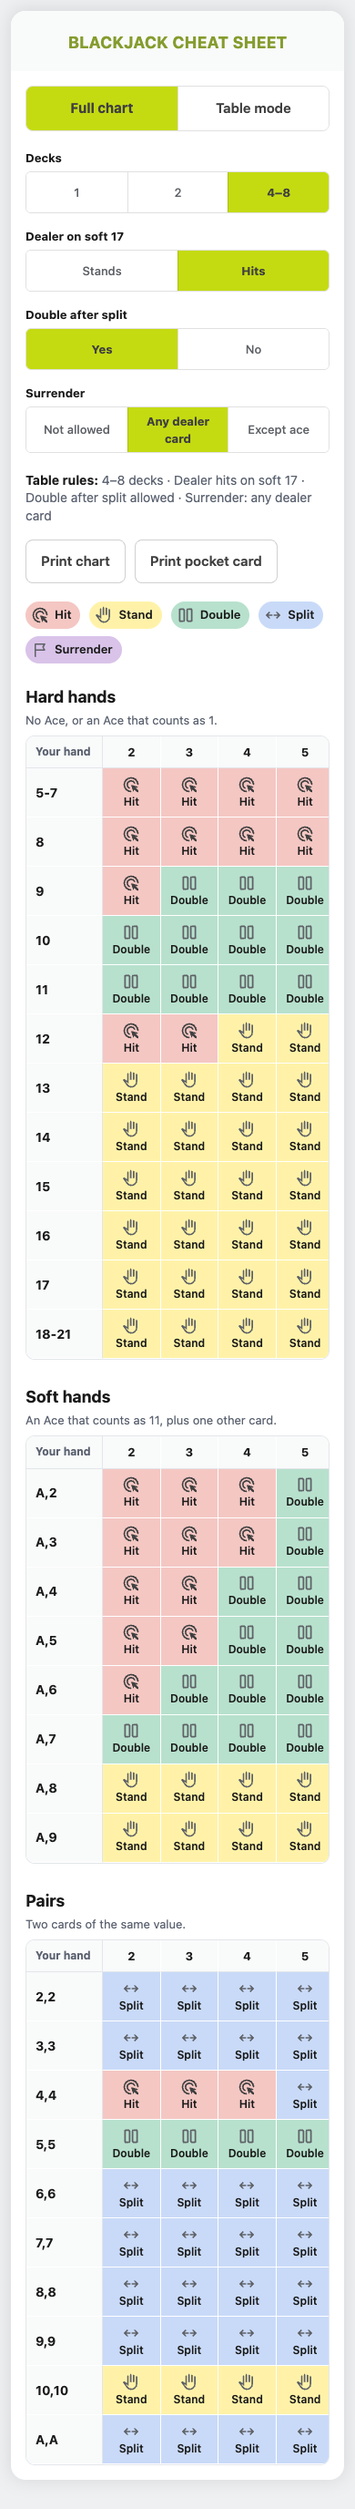
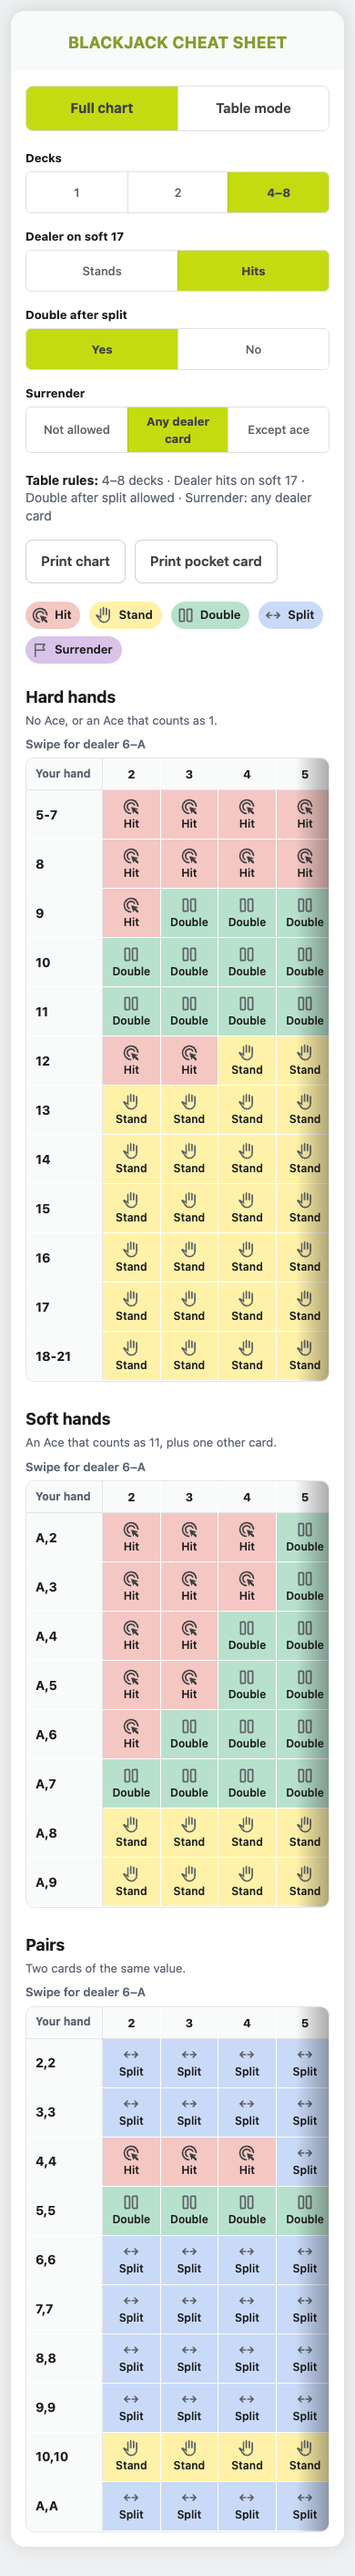
S-20 (QA): checks 9-11 added, full QA re-run 11/11 PASS; screenshots refreshed (reviewed PASS, G3 pending)

Changed region(s): [[0.0615, 0.0312, 0.9231, 0.9996]]

diff --git a/docs/qa/2026-10-05-qa.md b/docs/qa/2026-10-05-qa.md
@@ -1,4 +1,6 @@
-# QA report S-12 — prototype/index.html (2026-10-05)
+# QA report S-12 + S-20 — prototype/index.html (2026-10-05)
+
+Sections: original S-12 run (history, HEAD 43b8631) first; "Re-run after S-20" (HEAD 1a0410c) at the end.
 
 Goal served: 2 (correct at the table, printable). Gate: G3. Tester: qa-tester. Reports only; no app/engine code touched.
 
@@ -47,3 +49,51 @@ No high-severity failures.
 - Check 1, 4 and the 12,600-click pass of check 2 use real clicks on the rule-panel labels and table-mode buttons. Checks 3 and 8 use real keyboard events.
 - Print checks use Chrome page.pdf with print media emulated and html[data-print] set directly; window.print is stubbed only for the button test.
 - Page count is read from the PDF structure; the default 1-set run and the full run gave the same table.
+
+---
+
+## Re-run after S-20 (2026-10-05, HEAD 1a0410c)
+
+Script: `node docs/qa/qa-run.mjs` (default QA_TABLE_CLICKS=one; total about 3 min; exit code 0). Checks 1-8 re-run unchanged and all PASS (original results above kept for history; check 6 and the F3 note are superseded by checks 9/10 below). Checks 9-11 added. Real Chrome, file://, 0 console messages, 66 requests all the one file.
+
+| # | Check | Result | Evidence |
+|---|---|---|---|
+| 1 | 36 rule sets by real clicks, 10,800 cells == snapshot | PASS | 0 mismatches |
+| 2 | Table mode == chart (1 set x 350 by clicks, 36 x 350 via UI functions) | PASS | 0 mismatches |
+| 3 | Reason panel | PASS | unchanged |
+| 4 | My-table link | PASS | unchanged |
+| 5 | Print: 144 PDFs, 1 page each; rules + cells == snapshot | PASS | unchanged |
+| 6 | Layout 390/1280, no sideways scroll | PASS | scrollWidth == innerWidth in all states; tap targets under 44px: none at 390 or 1280 (Calculator link no longer flagged) |
+| 7 | Console + network | PASS | 0 console messages, 0 page errors, only the file URL |
+| 8 | Keyboard + a11y | PASS | script regex updated: a changed cell's label is now "Hard 8 vs dealer 5: Double, changed for your new rules. Show why" (accepted) |
+| 9 | Scroll cue (F1) | PASS | 390 on load: all 3 tables show "Swipe for dealer 6-A" + 36px right fade (box 332/720); fade pointer-events none; fade starts at x=325, pinned column ends at x=113; real mouse tap in the fade area hits the cell button and opens its reason panel ("Hard 10 vs dealer 5"); after scrolling each box to the end (scrollLeft 388) hint and fade gone; scrolling back restores them; 1280: no hint/fade; scrollWidth == innerWidth at both |
+| 10 | Calculator link >= 44px (F3) | PASS | 390: 300x59; 1280: 373x44 |
+| 11 | What your rules change (D-067) | PASS | see below |
+
+Check 11 detail:
+- 216 neighbouring transitions (36 combos x each single-field change), each by a real rule-panel click. Expected counts computed from snapshot/charts-36.json, independent of the page. For every one: cells with data-changed="1", "Changed" badges, screen-reader labels and the number in the count line all equal the snapshot difference, the marked cells are exactly the right cells, wording right (min 1, max 17 changed; 16 transitions say "1 move changed", singular OK; no transition has 0, so the "No moves changed" text is not reachable by single-field change and was not exercised). 0 mismatches.
+- First load and ?query load: no markers, count line hidden. Dismiss clears marks and line. Next change replaces the diff (4-8 -> 1 deck: 17; then S17: 5, text "5 moves changed..."); clicking the already-chosen value changes nothing.
+- Table mode: 3 real rule-click transitions x 350 hand x dealer pairs (4-8/H17/DAS/any -> 1 deck: 17 changed; surrender any -> none: 7; 2/S17/no DAS/none -> H17: 3). "Changed for your new rules" appears exactly on the changed pairs (27), never on the others, and the displayed move is the new one. 0 mismatches.
+- Print (full and pocket) with a diff showing on screen: print-media text has no "changed", no visible badge/outline/count element, 1 page each. Method note: Chrome PDF text could not be extracted (no PDF text tool installed), so the printed text is read from the print-media rendering.
+
+## Findings (re-run)
+| ID | Severity | Finding |
+|---|---|---|
+| F1 | closed | Scroll cue present and correct (check 9). |
+| F3 | closed | Link 44px at 390 and 1280 (check 10). |
+| F2 | low, open | Title contrast 2.96:1 (goes to the S-13 Figma brief, D-066). |
+| F4 | low | The "Changed" badge is 9px bold uppercase white on near-black (57x13 in a 64px cell at 390). It is legible in the 390 screenshot and the dashed outline also marks the cell (not colour only), but 9px is below the 11-12px commonly treated as a minimum, and the badge sits over the top of the move icon (partly covers it, the move word stays clear). Suggest 10-11px or a shorter label for the Figma pass. |
+| F5 | info | Badge adds "changed for your new rules" to cell aria-labels; existing cell-label check had to be relaxed to allow it. No product issue. |
+| F6 | info | `QA_TABLE_CLICKS=all` (12,600 real clicks) not re-run this time; it passed at HEAD 43b8631 and table-mode code was not changed except the result marker. Table-mode answers for all 36 sets are covered via UI functions. |
+
+No high or medium failures.
+
+## Screenshots (full page, refreshed)
+- /Users/mariussolis/blackjack-cheat-sheet/docs/qa/screenshots/default-chart-390.png
+- /Users/mariussolis/blackjack-cheat-sheet/docs/qa/screenshots/default-chart-1280.png
+- /Users/mariussolis/blackjack-cheat-sheet/docs/qa/screenshots/reason-panel-390.png
+- /Users/mariussolis/blackjack-cheat-sheet/docs/qa/screenshots/reason-panel-1280.png
+- /Users/mariussolis/blackjack-cheat-sheet/docs/qa/screenshots/table-mode-result-390.png
+- /Users/mariussolis/blackjack-cheat-sheet/docs/qa/screenshots/table-mode-result-1280.png
+- /Users/mariussolis/blackjack-cheat-sheet/docs/qa/screenshots/rules-changed-390.png (new: Decks 4-8 -> 1, "17 moves changed", cells marked, swipe hint + fade visible)
+- /Users/mariussolis/blackjack-cheat-sheet/docs/qa/screenshots/rules-changed-1280.png (new)

diff --git a/docs/backlog.md b/docs/backlog.md
@@ -28,13 +28,13 @@ Defaults on load: 4–8 decks · dealer hits soft 17 · DAS allowed · surrender
 | S-10 | Tap/click/keyboard a cell → panel: row label, reason (why.js), note shown separately (D-029, D-030, D-049); no hover | ui-dev | 2 | — | done |
 | S-11 | Print, both sizes: full page + pocket card, chosen rules printed on each (D-054) | ui-dev | 2 | — | done |
 | S-19 | My-table link: active rules kept in the page URL; every combo round-trips; invalid values fall back to defaults with no error (D-051, D-054) | ui-dev | 2 | — | done |
-| S-20 | G3 fix (D-066, D-067): scroll cue at 390 (fade + "Swipe for dealer 6–A"), Calculator link ≥44px, "What your rules change" highlight + count (chart and table mode); new QA checks; full QA re-run | ui-dev + qa-tester | 2 | G3 | in progress |
-| S-12 | QA run: Playwright 390 / 1280, all 36 combos vs snapshot, incl. S-18 and S-19 → docs/qa/ | qa-tester | 2 | G3 | reviewed (G3 pending; re-run after S-20) |
+| S-20 | G3 fix (D-066, D-067): scroll cue at 390 (fade + "Swipe for dealer 6–A"), Calculator link ≥44px, "What your rules change" highlight + count (chart and table mode); new QA checks; full QA re-run | ui-dev + qa-tester | 2 | G3 | reviewed (G3 pending) |
+| S-12 | QA run: Playwright 390 / 1280, all 36 combos vs snapshot, incl. S-18 and S-19 → docs/qa/ | qa-tester | 2 | G3 | reviewed (G3 pending; re-run done after S-20) |
 
 ## Sprint 3 — Figma (D2) + Jira (D3)
 | ID | Story (one output) | Agent | Goal | Gate | State |
 |---|---|---|---|---|---|
-| S-13 | Figma page from approved prototype (desktop + mobile + print); reserve space for v2 "Learn this chart" (D-051); final chart colours from CHIPY tokens (lime #c4db11 / #859c2e, neutrals), cells keep move icon + word (D-053); title #859c2e on #f9fafa ≈ 2.96:1 contrast — review with E53 owner | figma-designer | 2 | G4 | proposed |
+| S-13 | Figma page from approved prototype (desktop + mobile + print); reserve space for v2 "Learn this chart" (D-051); final chart colours from CHIPY tokens (lime #c4db11 / #859c2e, neutrals), cells keep move icon + word (D-053); title #859c2e on #f9fafa ≈ 2.96:1 contrast — review with E53 owner; "Changed" badge 9px overlaps icon top (QA F4) | figma-designer | 2 | G4 | proposed |
 | S-14 | Jira draft: Calculation Logic & Lookup Tables (engine + snapshot; must state the 2-cell deviation from v30: Single/H17 6,6 vs 7 Ph, Multi/H17 8,8 vs A Rpa — D-046, D-049) | jira-writer | 3 | G5 | proposed |
 | S-15 | Jira drafts: Tool Layout (reserve space for v2 "Learn this chart", D-051), Tool Functionality | jira-writer | 3 | G5 | proposed |
 | S-16 | Jira drafts: SEO Content (incl. keyword split decision with Ahrefs, D-016), Common Sections, related tools, sitemaps/index/search | jira-writer | 1 | G5 | proposed |

diff --git a/docs/stories/S-20-g3-fixes.md b/docs/stories/S-20-g3-fixes.md
@@ -1,6 +1,6 @@
 # S-20 — G3 fixes: scroll cue, bigger Calculator link, "What your rules change"
 
-State: approved (G3 first pass D-066; D-067; batch D-058) · Agent: ui-dev, then qa-tester (separate step) · Goal served: 2 (usable at the table, chart correct for the player's rules) · Gate: G3
+State: reviewed (awaiting G3) (G3 first pass D-066; D-067; batch D-058) · Agent: ui-dev, then qa-tester (separate step) · Goal served: 2 (usable at the table, chart correct for the player's rules) · Gate: G3
 
 ## Why
 Marius's first G3 review found three things, and asked for them in one fix story (D-066, D-067): (1) at phone width players do not see that the chart
@@ -44,7 +44,7 @@ changed (feature E, D-067).
 | 3 | Pass | Independent: 216 transitions, diffCharts = marked cells = badges = expected (min 1, max 17), count text singular/plural, 0 mismatches |
 | 4 | Pass | No markers on first load or ?query load (test fixed to really load a query); Dismiss clears; next change diffs vs previous rules; table-mode card marked exactly when its move changed (350 pairs); print markup clean |
 | 5 | Pass | `npm run check` 118/118; existing tests unchanged; only Write-list files |
-| 6 | Pending | QA re-run by qa-tester |
+| 6 | Pass | QA re-run at 1a0410c: checks 1–11 PASS, exit 0 (qa-tester + reviewer's own re-run, 2:56); check 11 = 216 real-click transitions, expected counts from snapshot only, 0 mismatches; 8 screenshots incl. rules-changed-390/1280. QA_TABLE_CLICKS=all not re-run (table answers unchanged; covered by checks 1, 2, 11) |
 
 Builder part: PASS (story-reviewer, 2026-10-05). Note for QA: 9px "Changed" badge legibility at 390.
-
+AC 6: PASS (story-reviewer, 2026-10-05). F1, F3 closed; F4 low (9px badge overlaps icon top) + F2 low → S-13 Figma brief.

diff --git a/docs/status.md b/docs/status.md
@@ -6,11 +6,11 @@ Last updated: 2026-10-05 (home-mac-mini, Claude Code CLI)
 - Sprint 1 (engine) S-01…S-06 + S-17 pushed (ddb2a58); details in docs/archive/sprint-1.md.
 - External check: 7,680 cells vs BlackjackInfo = 0 differences. Engine Report + review.html sent to reporter.
 - Sprint 2 (D1 prototype, batch D-058): S-07 f55200c · S-08 4458d05 · S-18 e6f6dfa · S-10 ba1e478 · S-19 c9d7d7d · S-11 43b8631 — all reviewed PASS.
-- S-12 QA: 8/8 checks PASS (docs/qa/2026-10-05-qa.md); findings F1 medium (no sideways-scroll cue at 390), F2/F3 low.
-- `npm run check`: 105/105 pass. Prototype: prototype/index.html (`open prototype/index.html`).
+- S-12 QA 8/8 PASS; G3 first pass → S-20 fixes (scroll cue, 44px link, "what your rules change") 1a0410c; QA re-run 11/11 PASS.
+- `npm run check`: 118/118 pass. Prototype: prototype/index.html (`open prototype/index.html`).
 
 ## Next
-- G3: Marius signs off the prototype (S-12 stays "reviewed" until then).
+- G3 (second pass): Marius signs off the prototype (S-12, S-20 stay "reviewed" until then).
 - Then: Codex review + adversarial review --base origin/main, G6 push; Sprint 3 (Figma S-13).
 - work-lenovo clone pending.
 
